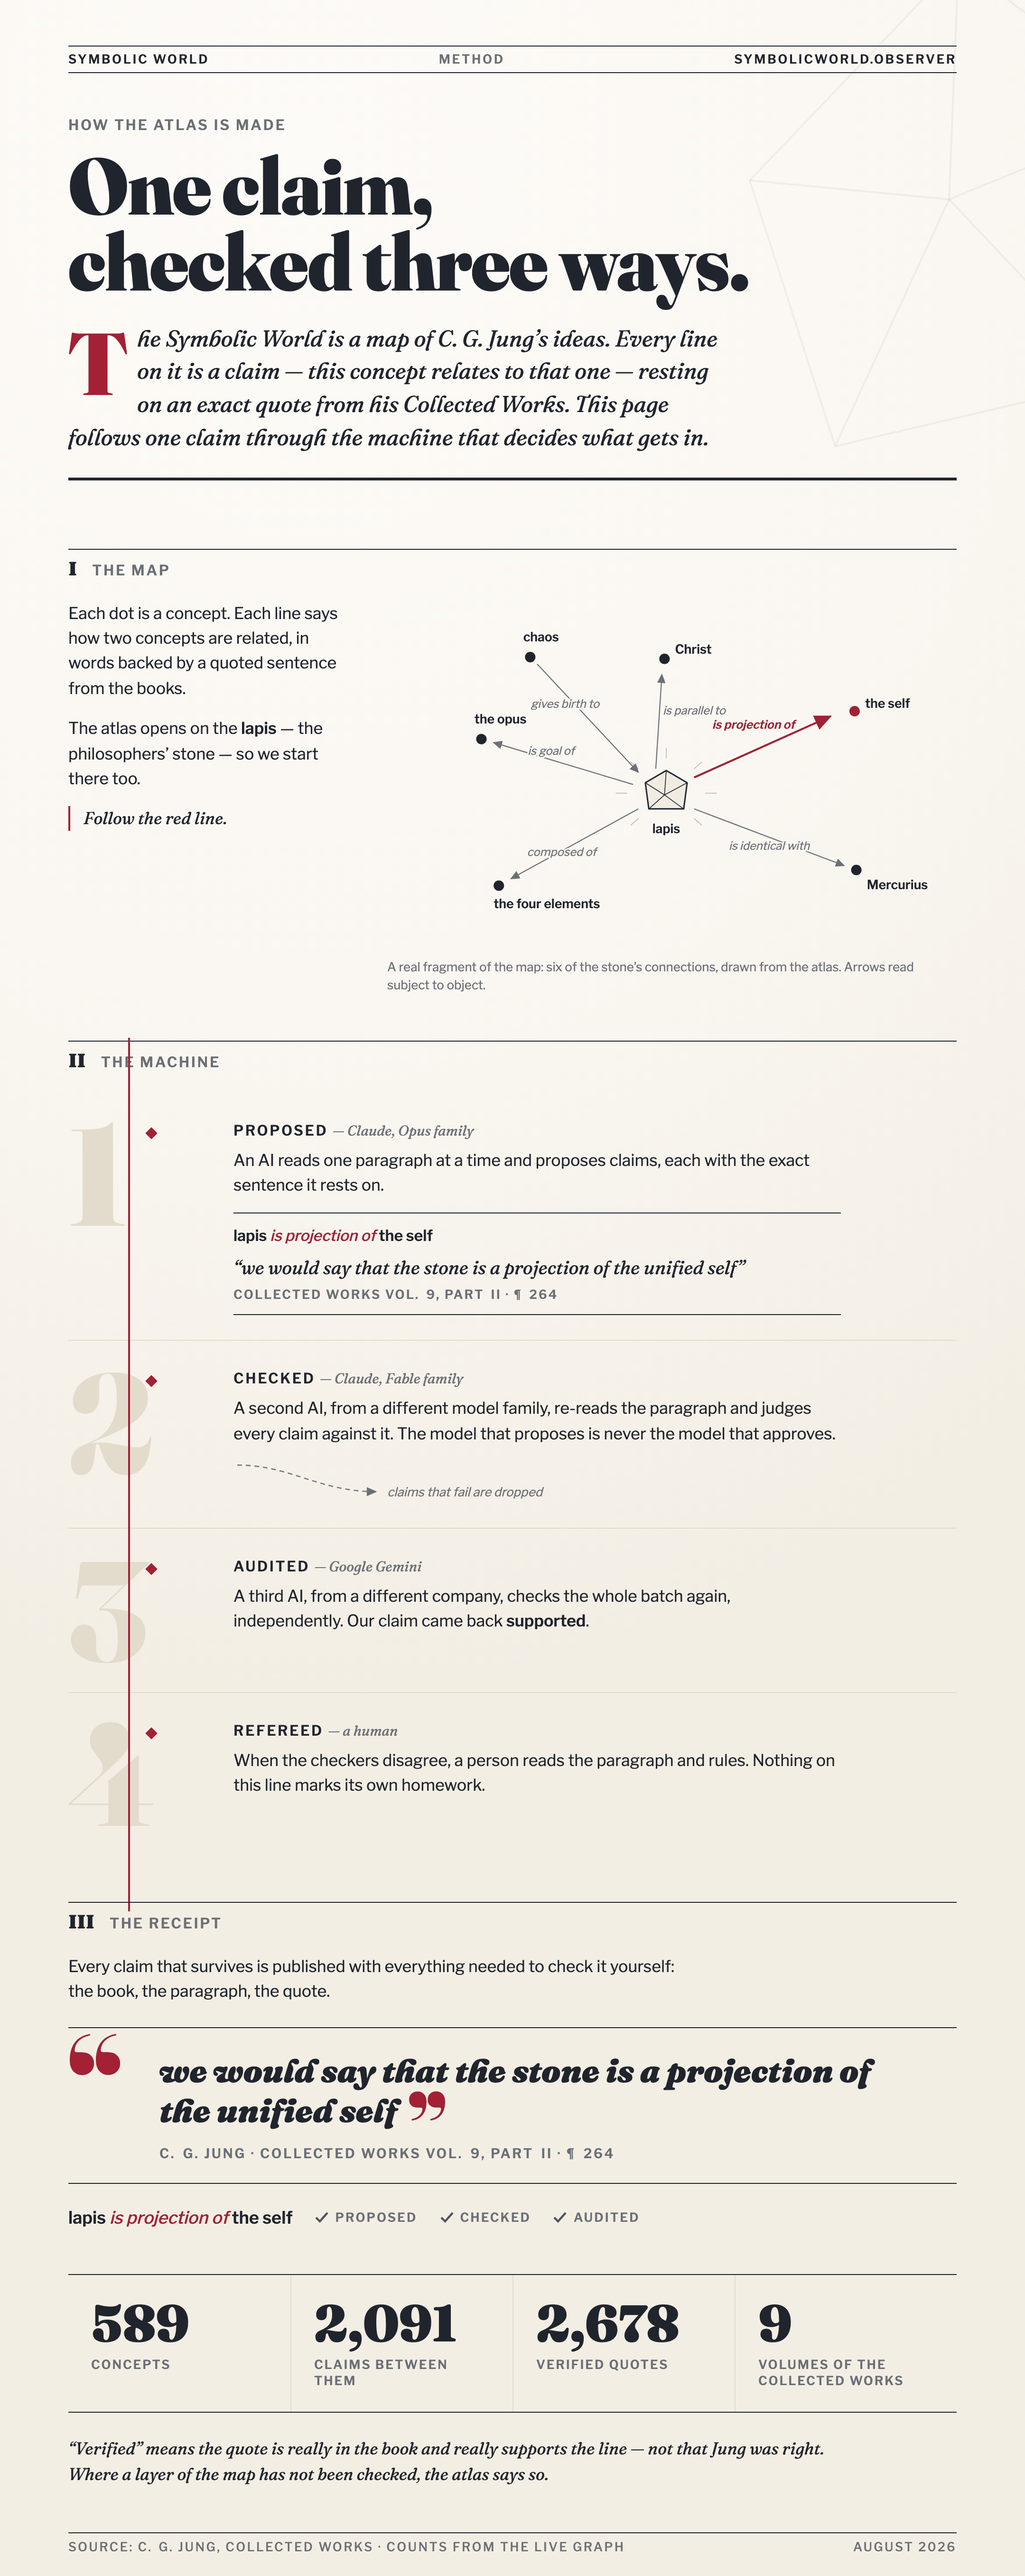
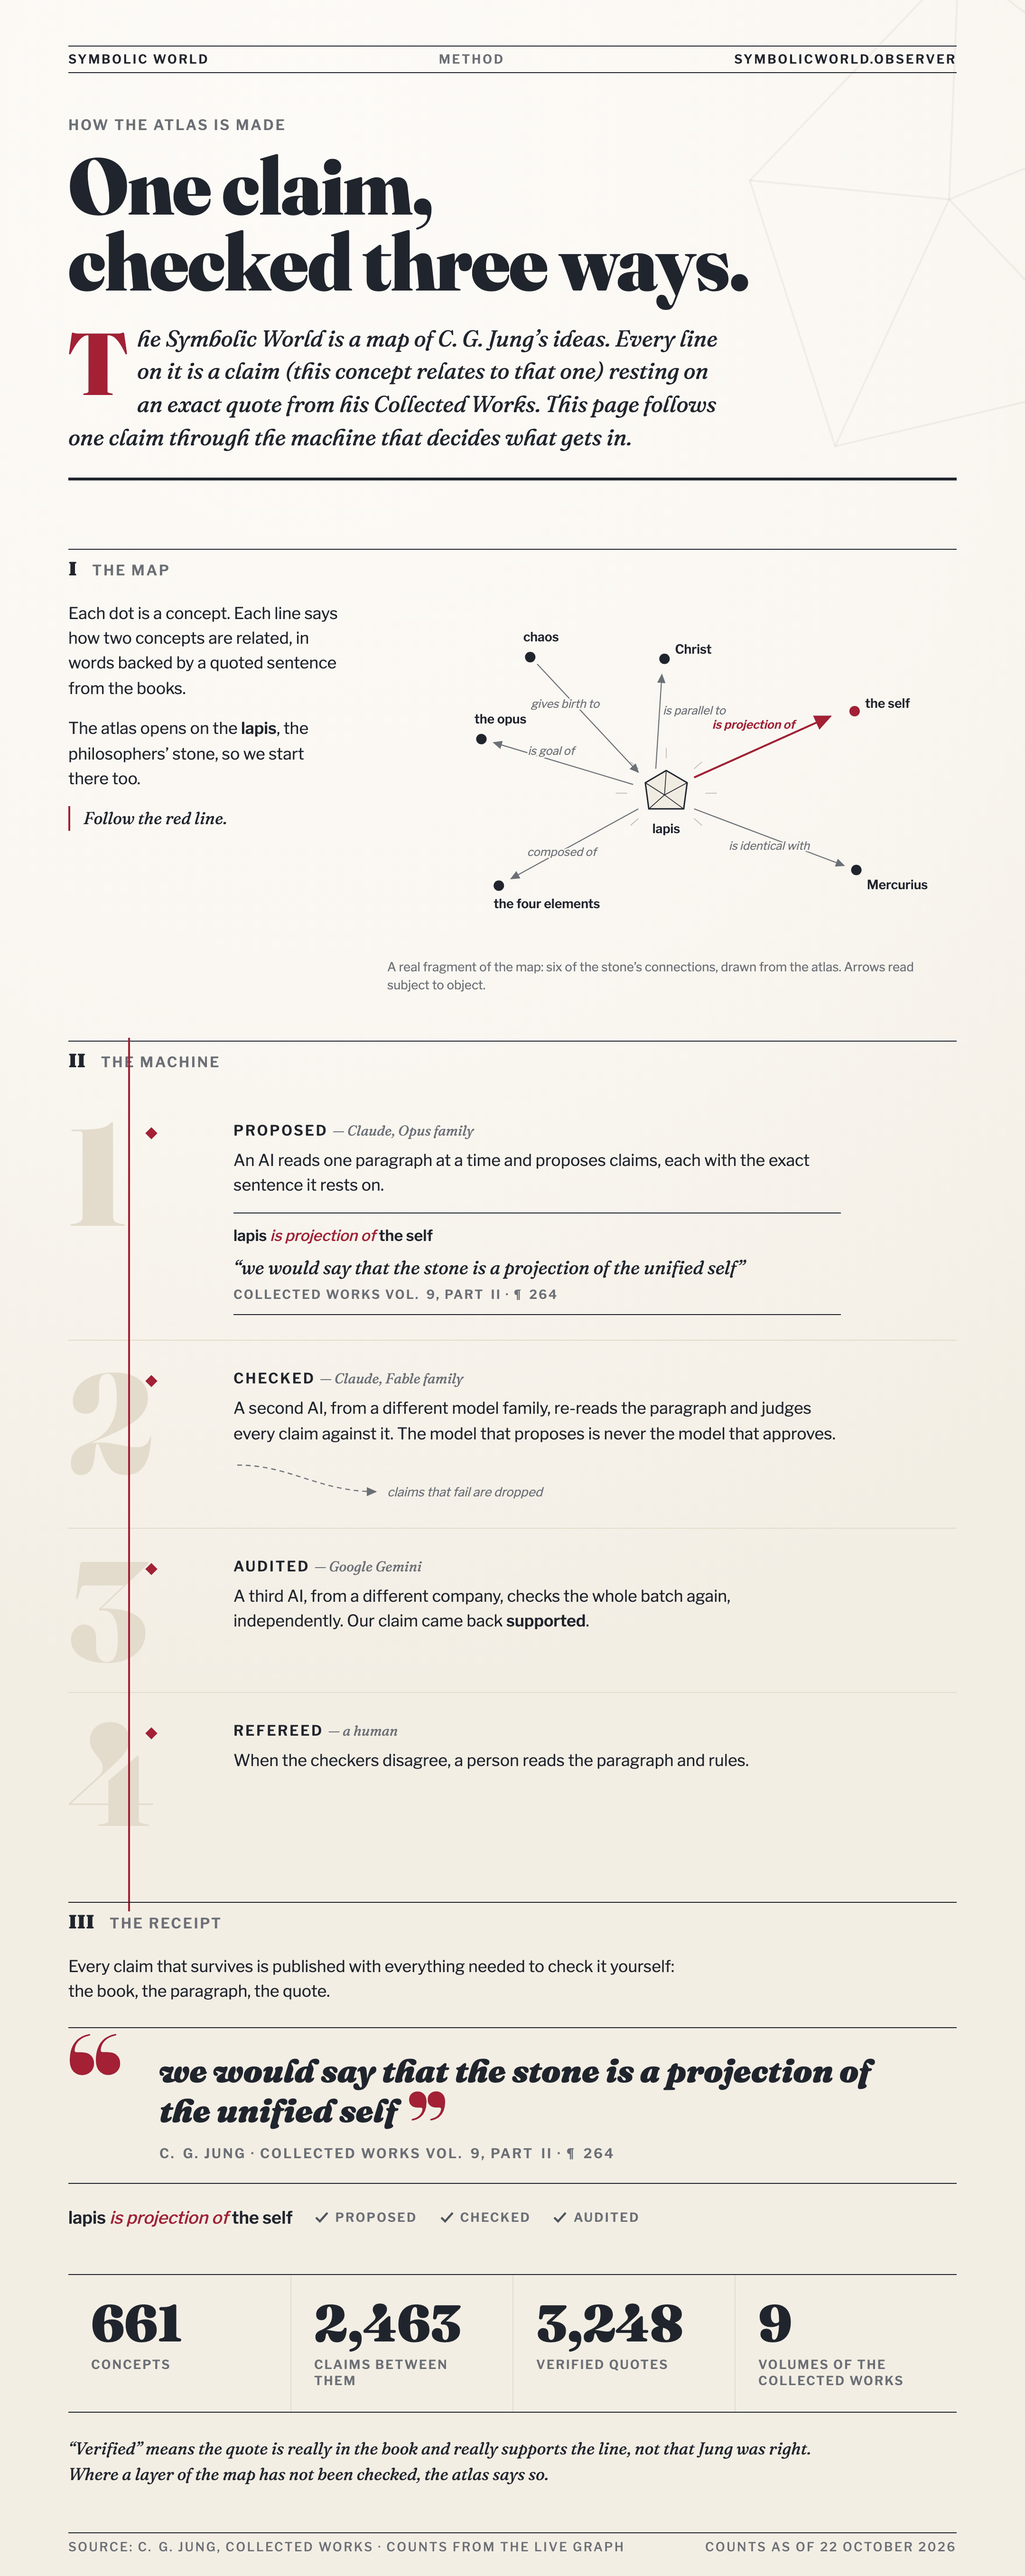
poster re-rendered at 661/2463/3248 with the 22 October caption and the four humanizer edits; releases intro folded into prose

diff --git a/docs/figures/method_poster.html b/docs/figures/method_poster.html
@@ -184,8 +184,8 @@ section { position:relative; z-index:2; }
     <div class="kicker">How the atlas is made</div>
     <h1>One claim,<br>checked three ways.</h1>
     <p class="standfirst"><span class="dropcap">T</span>he Symbolic World is a map
-    of C.&thinsp;G. Jung&rsquo;s ideas. Every line on it is a claim &mdash; this concept
-    relates to that one &mdash; resting on an exact quote from his <em>Collected
+    of C.&thinsp;G. Jung&rsquo;s ideas. Every line on it is a claim (this concept
+    relates to that one) resting on an exact quote from his <em>Collected
     Works</em>. This page follows one claim
     through the machine that decides what gets in.</p>
     <hr class="title-rule">
@@ -199,8 +199,7 @@ section { position:relative; z-index:2; }
         <p class="body-text">Each dot is a concept. Each line says how two
         concepts are related, in words backed by a quoted sentence from the
         books.</p>
-        <p class="body-text">The atlas opens on the <strong>lapis</strong> &mdash;
-        the philosophers&rsquo; stone &mdash; so we start there too.</p>
+        <p class="body-text">The atlas opens on the <strong>lapis</strong>, the philosophers&rsquo; stone, so we start there too.</p>
         <p class="map-note">Follow the red line.</p>
       </div>
       <figure class="map-fig">
@@ -342,7 +341,7 @@ section { position:relative; z-index:2; }
           <span class="dot"></span>
           <div class="stage">Refereed <em>&mdash; a human</em></div>
           <p class="body-text">When the checkers disagree, a person reads the
-          paragraph and rules. Nothing on this line marks its own homework.</p>
+          paragraph and rules.</p>
         </div>
       </div>
     </div>
@@ -374,19 +373,19 @@ section { position:relative; z-index:2; }
 
   <!-- ================= STATS ================= -->
   <div class="stats">
-    <div class="stat"><div class="n">653</div><div class="l">concepts</div></div>
-    <div class="stat"><div class="n">2,420</div><div class="l">claims between them</div></div>
-    <div class="stat"><div class="n">3,180</div><div class="l">verified quotes</div></div>
+    <div class="stat"><div class="n">661</div><div class="l">concepts</div></div>
+    <div class="stat"><div class="n">2,463</div><div class="l">claims between them</div></div>
+    <div class="stat"><div class="n">3,248</div><div class="l">verified quotes</div></div>
     <div class="stat"><div class="n">9</div><div class="l">volumes of the<br>Collected Works</div></div>
   </div>
 
   <p class="honesty">&ldquo;Verified&rdquo; means the quote is really in the book
-  and really supports the line &mdash; not that Jung was right. Where a layer of
+  and really supports the line, not that Jung was right. Where a layer of
   the map has not been checked, the atlas says so.</p>
 
   <div class="footer">
     <span>Source: C.&thinsp;G. Jung, Collected Works &middot; counts from the live graph</span>
-    <span>Counts as of 21 October 2026</span>
+    <span>Counts as of 22 October 2026</span>
   </div>
 </div>
 </body>

diff --git a/docs/figures/method_poster_web.html b/docs/figures/method_poster_web.html
@@ -184,8 +184,8 @@ section { position:relative; z-index:2; }
     <div class="kicker">How the atlas is made</div>
     <h1>One claim,<br>checked three ways.</h1>
     <p class="standfirst"><span class="dropcap">T</span>he Symbolic World is a map
-    of C.&thinsp;G. Jung&rsquo;s ideas. Every line on it is a claim &mdash; this concept
-    relates to that one &mdash; resting on an exact quote from his <em>Collected
+    of C.&thinsp;G. Jung&rsquo;s ideas. Every line on it is a claim (this concept
+    relates to that one) resting on an exact quote from his <em>Collected
     Works</em>. This page follows one claim
     through the machine that decides what gets in.</p>
     <hr class="title-rule">
@@ -199,8 +199,7 @@ section { position:relative; z-index:2; }
         <p class="body-text">Each dot is a concept. Each line says how two
         concepts are related, in words backed by a quoted sentence from the
         books.</p>
-        <p class="body-text">The atlas opens on the <strong>lapis</strong> &mdash;
-        the philosophers&rsquo; stone &mdash; so we start there too.</p>
+        <p class="body-text">The atlas opens on the <strong>lapis</strong>, the philosophers&rsquo; stone, so we start there too.</p>
         <p class="map-note">Follow the red line.</p>
       </div>
       <figure class="map-fig">
@@ -342,7 +341,7 @@ section { position:relative; z-index:2; }
           <span class="dot"></span>
           <div class="stage">Refereed <em>&mdash; a human</em></div>
           <p class="body-text">When the checkers disagree, a person reads the
-          paragraph and rules. Nothing on this line marks its own homework.</p>
+          paragraph and rules.</p>
         </div>
       </div>
     </div>
@@ -374,19 +373,19 @@ section { position:relative; z-index:2; }
 
   <!-- ================= STATS ================= -->
   <div class="stats">
-    <div class="stat"><div class="n">653</div><div class="l">concepts</div></div>
-    <div class="stat"><div class="n">2,420</div><div class="l">claims between them</div></div>
-    <div class="stat"><div class="n">3,180</div><div class="l">verified quotes</div></div>
+    <div class="stat"><div class="n">661</div><div class="l">concepts</div></div>
+    <div class="stat"><div class="n">2,463</div><div class="l">claims between them</div></div>
+    <div class="stat"><div class="n">3,248</div><div class="l">verified quotes</div></div>
     <div class="stat"><div class="n">9</div><div class="l">volumes of the<br>Collected Works</div></div>
   </div>
 
   <p class="honesty">&ldquo;Verified&rdquo; means the quote is really in the book
-  and really supports the line &mdash; not that Jung was right. Where a layer of
+  and really supports the line, not that Jung was right. Where a layer of
   the map has not been checked, the atlas says so.</p>
 
   <div class="footer">
     <span>Source: C.&thinsp;G. Jung, Collected Works &middot; counts from the live graph</span>
-    <span>Counts as of 21 October 2026</span>
+    <span>Counts as of 22 October 2026</span>
   </div>
 </div>
 </body>

diff --git a/web/public/releases.html b/web/public/releases.html
@@ -70,12 +70,7 @@ td.n { font-family: var(--mono); font-size: .78rem; }
 <div class="titleband"><p class="eyebrow">release notes</p>
 <h1>Releases</h1></div>
 <p>What each release changed.</p>
-<p>Each entry opens with:</p>
-<ul>
-<li>The graph version,</li>
-<li>the ruleset version it shipped with (deliberately separate numbers),</li>
-<li>and the calibration record in force when the release was cut.</li>
-</ul>
+<p>Each entry opens with the graph version, the ruleset version it shipped with (the two are deliberately separate numbers) and the calibration record in force when the release was cut.</p>
 <section class="rel-entry">
 <h2>v2.1: the atlas as an instrument</h2>
 <div class="meta">in preparation. Deploy-only: no tag, no version bump, no Zenodo record until the CW 11 arc completes.</div>

diff --git a/web/public/nutshell.html b/web/public/nutshell.html
@@ -66,7 +66,7 @@ page.</p></div>
 <figure class="fig fig-poster">
   <a href="/method-poster.png"><img src="/method-poster.png" loading="lazy" width="2160" height="5426"
     alt="Poster: one real claim — lapis, is projection of, the self — followed through proposal, a second-family check, a cross-vendor audit, and human refereeing, ending with its published receipt."></a>
-  <figcaption>The method on one page. Counts as of 21 October 2026.</figcaption>
+  <figcaption>The method on one page. Counts as of 22 October 2026.</figcaption>
 </figure>
 <p class="meta">The atlas, the dataset and the ledger are free. Tips fund the next mining window: <a href="/support">support the project</a>.</p>
 </main></body></html>

diff --git a/web/public/ontology.html b/web/public/ontology.html
@@ -318,6 +318,6 @@ table.findings .src { font: .58rem var(--mono); }
 <div class="receipts"><b>receipts</b>
 external-validity result from <code>docs/experiments/external_validity_2026-08/results.json</code> (report v3, closed 2026-08-12);<br>scan output from <code>tools/ontology_qa/quality.py --json</code> over seed.json <span class="hash">sha256:f73cafe514ec</span>, run at build;<br>
 declarations from <code>pipeline/family/relation_declarations.json</code>, transcribed from FAMILY_DEFINITIONS v0.7.1;<br>
-built 2026-10-22 at commit 893be5b
+built 2026-10-22 at commit 5934863
 </div>
 </main></body></html>

diff --git a/docs/RELEASES.md b/docs/RELEASES.md
@@ -25,11 +25,9 @@
 
 What each release changed.
 
-Each entry opens with:
-
-- The graph version,
-- the ruleset version it shipped with (deliberately separate numbers),
-- and the calibration record in force when the release was cut.
+Each entry opens with the graph version, the ruleset version it shipped with
+(the two are deliberately separate numbers) and the calibration record in force
+when the release was cut.
 
 ## v1.3.0: the published baseline
 
